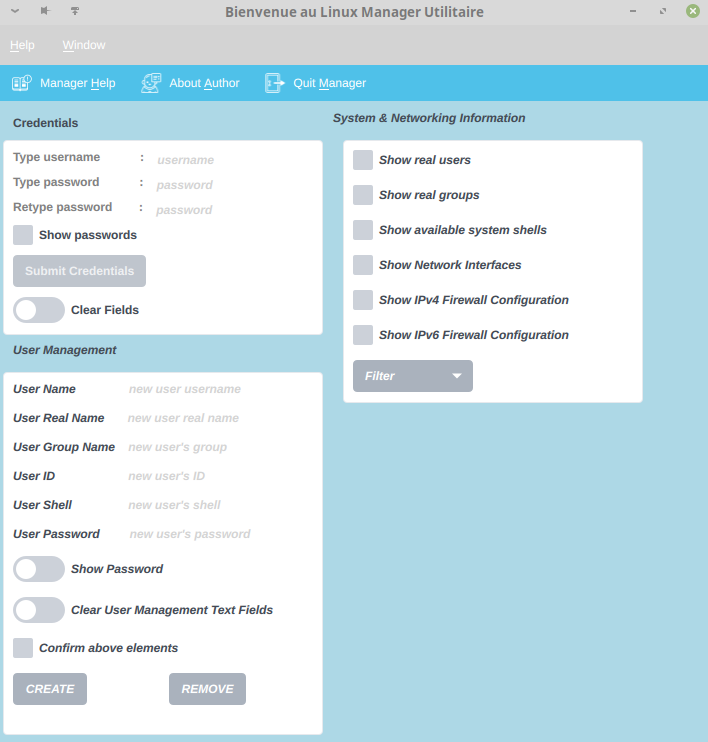
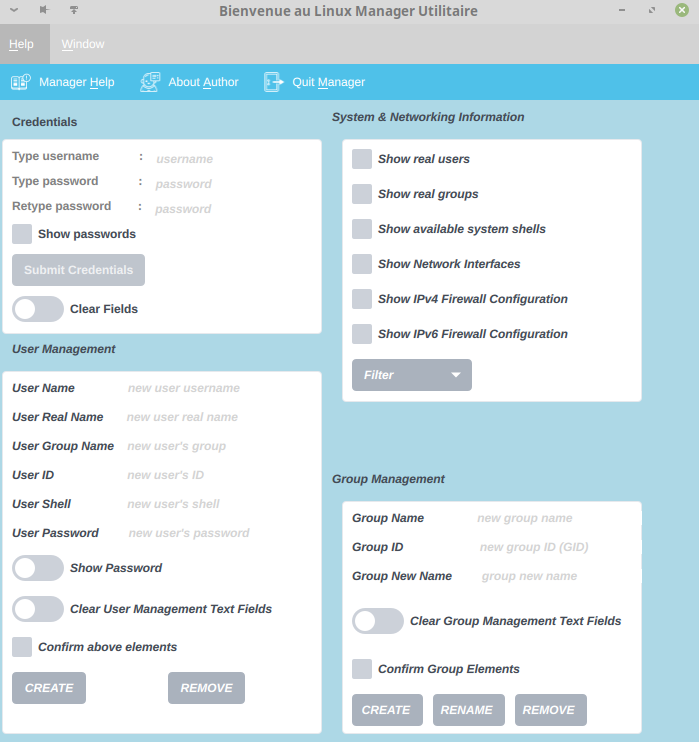
added group management section in qml ui

diff --git a/main.qml b/main.qml
@@ -202,6 +202,12 @@ ApplicationWindow {
     property string new_user_shell: ""
     property string new_user_encr_password: ""
 
+    // A few variables for the groups addition|removal|rename functionality
+    //
+    property string new_group_name: ""
+    property string new_group_id: ""
+    property string existing_group_new_name: ""
+
     // The Firewall Table that will be chosen by the user from the respective ComboBox
     // in the System & Networking Section related Actions | Default value: "filter" table
     //
@@ -953,6 +959,168 @@ ApplicationWindow {
                         //
                         myManager.setTable(firewallTable)
                     }
+                }
+            }
+        }
+    }
+
+
+    /*                      GROUP ACTIONS SECTION                               */
+    GroupBox {
+        id: groupMgmntId
+        title: "Group Management"
+        x: 5
+        width: systemInfoGroupBox.width
+        height: rootElementId.height - systemInfoGroupBox.height - 150
+        anchors.bottom: userMgmntId.bottom
+        anchors.right: systemInfoGroupBox.right
+        font: Qt.font({family: "Helvetica", pointSize: 9, italic: true, bold: true})
+        spacing: 5
+        leftInset: 20
+        ColumnLayout {
+            id: groupColumnId
+            // New group name
+            Row {
+                width: parent.width
+                bottomPadding: 10
+                leftPadding: 20
+                // new user username Column
+                // label & TextField
+                Label {
+                    text: "Group Name          "
+                    id: newGroupNameLabelId
+                }
+                TextField {
+                    id: newGroupNameTextFieldId
+                    width: groupMgmntId.width - newGroupNameLabelId.width - 30
+                    // remove border color from the text field
+                    background: Rectangle {
+                        border.color: "transparent"
+                    }
+                    placeholderText: "      new group name "
+                    placeholderTextColor: "lightgray"
+                    ToolTip.delay: 500
+                    ToolTip.timeout: 2000
+                    ToolTip.visible: hovered
+                    ToolTip.text: qsTr("New group to be created name")
+                    onEditingFinished: {
+                        new_group_name = newGroupNameTextFieldId.text
+                    }
+                }
+            }
+            Row {
+                // New group ID
+                width: parent.width
+                bottomPadding: 10
+                leftPadding: 20
+                // new user username Column
+                // label & TextField
+                Label {
+                    text: "Group ID          "
+                    id: newGroupIDLabelId
+                }
+                TextField {
+                    id: newGroupIDTextFieldId
+                    width: groupMgmntId.width - newGroupIDLabelId.width - 30
+                    // remove border color from the text field
+                    background: Rectangle {
+                        border.color: "transparent"
+                    }
+                    placeholderText: "             new group ID (GID) "
+                    placeholderTextColor: "lightgray"
+                    ToolTip.delay: 500
+                    ToolTip.timeout: 2000
+                    ToolTip.visible: hovered
+                    ToolTip.text: qsTr("New group to be created ID (GID)")
+                    onEditingFinished: {
+                        new_group_id = newGroupIDTextFieldId.text
+                    }
+                }
+            }
+            Row {
+                // Existing group new name in order to rename it
+                width: parent.width
+                bottomPadding: 20
+                leftPadding: 20
+                // new user username Column
+                // label & TextField
+                Label {
+                    text: "Group New Name       "
+                    id: newGroupNewNameLabelId
+                }
+                TextField {
+                    id: newGroupNewNameTextFieldId
+                    width: groupMgmntId.width - newGroupNewNameLabelId.width - 30
+                    // remove border color from the text field
+                    background: Rectangle {
+                        border.color: "transparent"
+                    }
+                    placeholderText: "  group new name "
+                    placeholderTextColor: "lightgray"
+                    ToolTip.delay: 500
+                    ToolTip.timeout: 2000
+                    ToolTip.visible: hovered
+                    ToolTip.text: qsTr("Group to be renamed new name")
+                    onEditingFinished: {
+                        new_group_id = newGroupIDTextFieldId.text
+                    }
+                }
+            }
+            Row {
+                // CLear above group related fields
+                Switch {
+                    id: clearGroupSwitchId
+                    text: "Clear Group Management Text Fields"
+                    checked: false
+                    leftPadding: 20
+                    bottomPadding: 20
+                    onCheckedChanged: {
+                        if(checked===true) {
+                            newGroupNameTextFieldId.text = ""
+                            newGroupIDTextFieldId.text = ""
+                            newGroupNewNameTextFieldId.text = ""
+                        }
+                    }
+                }
+            }
+            Row {
+                // Confirm in order to proceed
+                CheckBox {
+                    id: groupCheckBoxId
+                    text: "Confirm Group Elements"
+                    checked: false
+                    leftPadding: 20
+                    bottomPadding: 10
+                    onClicked: {
+                        if(checked===true) {
+                            console.log("Checked groupbox confirm checkBox ...")
+                            if(new_group_name==="") {
+                                genericMessageDialog.text = "Please provide group name and then confirm elements."
+                                genericMessageDialog.title = "WARNING"
+                                genericMessageDialog.open()
+                                groupCheckBoxId.checked = false
+                            }
+                        }
+                    }
+                }
+            }
+            RowLayout {
+                // Three buttons : [1] CREATE [2] RENAME [3] REMOVE
+                id: groupRowLayoutId
+                Button {
+                    id: createGroupId
+                    text: "     CREATE"
+                    leftInset: 20
+                }
+                Button {
+                    id: renameGroupId
+                    text: "RENAME"
+                    leftInset: 5
+                }
+                Button {
+                    id: removeGroupId
+                    text: "REMOVE"
+                    leftInset: 5
                 }
             }
         }
